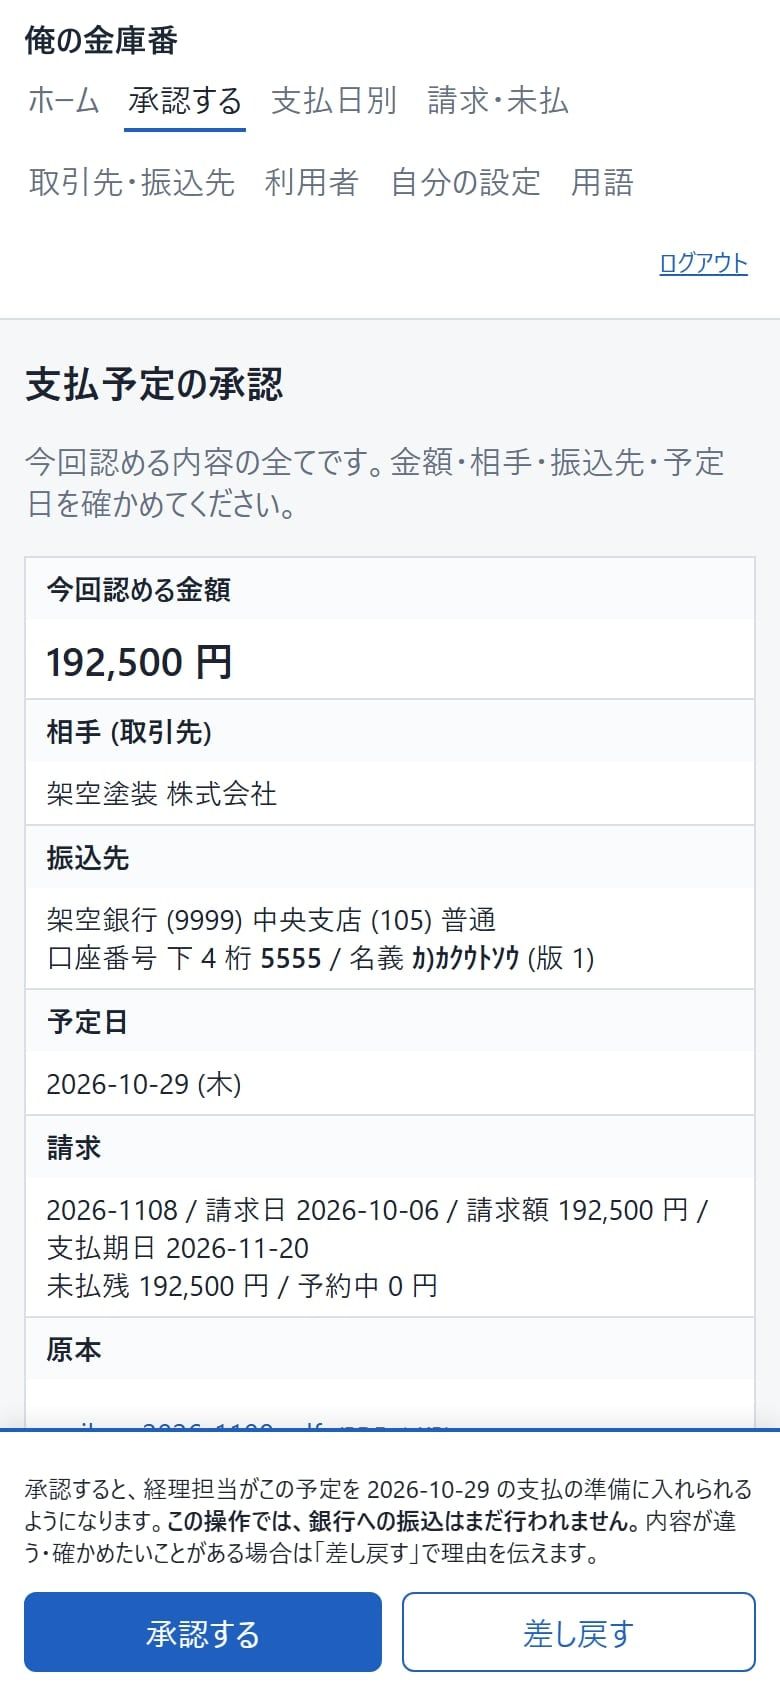
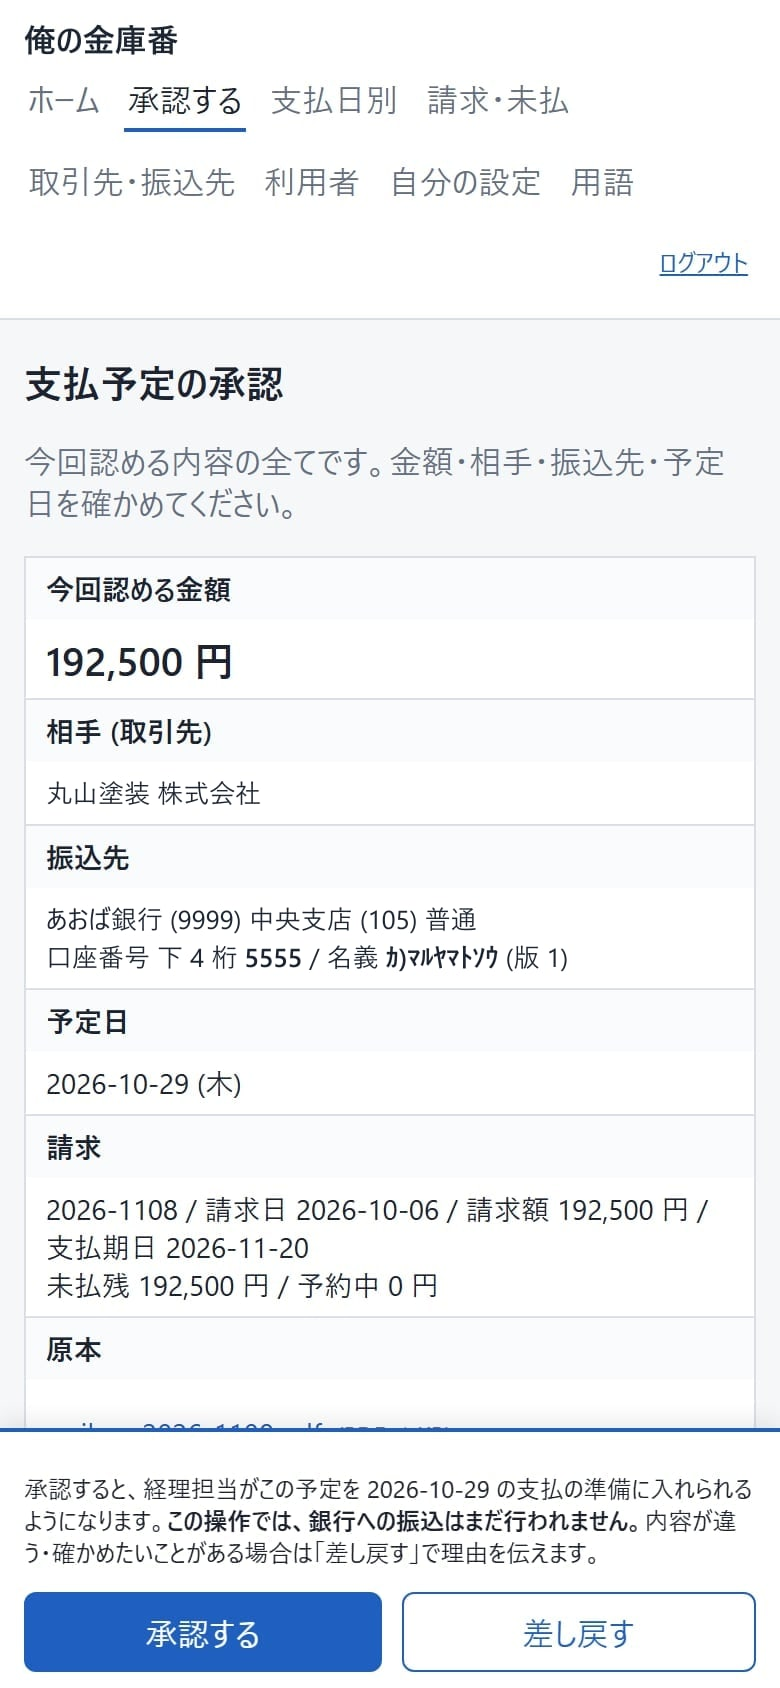
俺の金庫番: デモと画面写真・カード画像の「架空」の名前を自然な名前に差し替え。使っていない俺の番頭の画面写真を削除
Claude-Session: https://claude.ai/code/session_01P8GfC6i6qUkQG9xHNCAYyn

Changed region(s): [[0.0615, 0.5237, 0.7692, 0.5853], [0.0615, 0.4621, 0.3385, 0.4929]]

diff --git a/shiharai-kanri/index.html b/shiharai-kanri/index.html
@@ -17,9 +17,9 @@
 <meta property="og:title" content="俺の金庫番｜請求書の支払、社長はスマホで承認｜DX職人">
 <meta property="og:description" content="請求書を登録し、社長がスマホで承認。承認した内容から銀行に持ち込む振込ファイル(全銀形式)を作り、銀行の明細と照らして支払済みを記録します。">
 <meta property="og:url" content="https://dx-syokunin.jp/shiharai-kanri/">
-<meta property="og:image" content="https://dx-syokunin.jp/assets/shiharai-kanri.jpg?v=20261026c">
+<meta property="og:image" content="https://dx-syokunin.jp/assets/shiharai-kanri.jpg?v=20261027a">
 <meta name="twitter:card" content="summary_large_image">
-<script type="application/ld+json">{"@context": "https://schema.org", "@graph": [{"@type": "WebPage", "@id": "https://dx-syokunin.jp/shiharai-kanri/", "url": "https://dx-syokunin.jp/shiharai-kanri/", "name": "俺の金庫番｜請求書の支払を社長がスマホで承認し、振込ファイルまで｜DX職人", "inLanguage": "ja", "isPartOf": {"@id": "https://dx-syokunin.jp/#website"}, "primaryImageOfPage": {"@type": "ImageObject", "url": "https://dx-syokunin.jp/assets/shiharai-kanri.jpg?v=20261026c"}}, {"@type": "BreadcrumbList", "itemListElement": [{"@type": "ListItem", "position": 1, "name": "DX職人", "item": "https://dx-syokunin.jp/"}, {"@type": "ListItem", "position": 2, "name": "俺の金庫番", "item": "https://dx-syokunin.jp/shiharai-kanri/"}]}, {"@type": "FAQPage", "mainEntity": [{"@type": "Question", "name": "銀行に自動で振り込みますか？", "acceptedAnswer": {"@type": "Answer", "text": "いいえ。銀行に取り込む振込ファイル(全銀形式)を作るところまでです。振込の実行は、銀行の法人向けネットバンキングで行います。"}}, {"@type": "Question", "name": "どの銀行で使えますか？", "acceptedAnswer": {"@type": "Answer", "text": "全銀協が決めた形(総合振込)のファイルを作ります。お使いの銀行で取り込めるかは、導入のときに一緒に確かめます。"}}, {"@type": "Question", "name": "社長ひとりでも使えますか？", "acceptedAnswer": {"@type": "Answer", "text": "使えません。登録した本人は承認できない作りなので、請求を登録する人と承認する人の2人以上で使います。"}}, {"@type": "Question", "name": "承認の依頼が来たことは、どうやって分かりますか？", "acceptedAnswer": {"@type": "Answer", "text": "ログインすると、ホームに「承認する: 2 件」のように出ます。メールなどでのお知らせはありません。"}}, {"@type": "Question", "name": "請求書を写真で読み取りますか？", "acceptedAnswer": {"@type": "Answer", "text": "読み取りません。請求書のPDFや写真は原本として保存し、金額などは人が入力します。"}}, {"@type": "Question", "name": "料金はいくらですか？", "acceptedAnswer": {"@type": "Answer", "text": "ご相談のうえご案内します。お気軽にお問い合わせください。"}}]}]}</script>
+<script type="application/ld+json">{"@context": "https://schema.org", "@graph": [{"@type": "WebPage", "@id": "https://dx-syokunin.jp/shiharai-kanri/", "url": "https://dx-syokunin.jp/shiharai-kanri/", "name": "俺の金庫番｜請求書の支払を社長がスマホで承認し、振込ファイルまで｜DX職人", "inLanguage": "ja", "isPartOf": {"@id": "https://dx-syokunin.jp/#website"}, "primaryImageOfPage": {"@type": "ImageObject", "url": "https://dx-syokunin.jp/assets/shiharai-kanri.jpg?v=20261027a"}}, {"@type": "BreadcrumbList", "itemListElement": [{"@type": "ListItem", "position": 1, "name": "DX職人", "item": "https://dx-syokunin.jp/"}, {"@type": "ListItem", "position": 2, "name": "俺の金庫番", "item": "https://dx-syokunin.jp/shiharai-kanri/"}]}, {"@type": "FAQPage", "mainEntity": [{"@type": "Question", "name": "銀行に自動で振り込みますか？", "acceptedAnswer": {"@type": "Answer", "text": "いいえ。銀行に取り込む振込ファイル(全銀形式)を作るところまでです。振込の実行は、銀行の法人向けネットバンキングで行います。"}}, {"@type": "Question", "name": "どの銀行で使えますか？", "acceptedAnswer": {"@type": "Answer", "text": "全銀協が決めた形(総合振込)のファイルを作ります。お使いの銀行で取り込めるかは、導入のときに一緒に確かめます。"}}, {"@type": "Question", "name": "社長ひとりでも使えますか？", "acceptedAnswer": {"@type": "Answer", "text": "使えません。登録した本人は承認できない作りなので、請求を登録する人と承認する人の2人以上で使います。"}}, {"@type": "Question", "name": "承認の依頼が来たことは、どうやって分かりますか？", "acceptedAnswer": {"@type": "Answer", "text": "ログインすると、ホームに「承認する: 2 件」のように出ます。メールなどでのお知らせはありません。"}}, {"@type": "Question", "name": "請求書を写真で読み取りますか？", "acceptedAnswer": {"@type": "Answer", "text": "読み取りません。請求書のPDFや写真は原本として保存し、金額などは人が入力します。"}}, {"@type": "Question", "name": "料金はいくらですか？", "acceptedAnswer": {"@type": "Answer", "text": "ご相談のうえご案内します。お気軽にお問い合わせください。"}}]}]}</script>
 <link rel="stylesheet" href="../style.css?v=20261026a">
 <link rel="stylesheet" href="lp.css?v=20261027b">
 <script>document.documentElement.classList.add('has-js');</script>
@@ -103,7 +103,7 @@
     <div class="sk-hero__visual">
       <div class="sk-phone sk-phone--hero">
         <div class="sk-phone__screen sk-phone__screen--img">
-          <img src="../assets/shiharai-kanri/approve-sp.jpg" width="780" height="1688" alt="社長のスマホに出る「支払予定の承認」の画面。今回認める金額 192,500 円、相手、振込先、予定日、請求の内容と、下に「承認する」「差し戻す」のボタン">
+          <img src="../assets/shiharai-kanri/approve-sp.jpg?v=20261027a" width="780" height="1688" alt="社長のスマホに出る「支払予定の承認」の画面。今回認める金額 192,500 円、相手、振込先、予定日、請求の内容と、下に「承認する」「差し戻す」のボタン">
         </div>
       </div>
       <div class="sk-hero__float sk-hero__float--1" aria-hidden="true"><svg class="icon" aria-hidden="true"><use href="#i-smartphone"/></svg>社長: スマホで承認</div>
@@ -198,7 +198,7 @@
       <h2 id="office-title"><span class="ph">経理担当は、</span><span class="accent ph">「今日やること」を見るだけ。</span></h2>
       <p class="intro">承認された支払、照らし合わせる明細、期日を過ぎた請求。やることが件数で並びます。</p>
     </div>
-    <figure class="sk-browser"><span class="sk-browser__bar" aria-hidden="true"><i></i><i></i><i></i></span><picture><source media="(max-width: 599px)" srcset="../assets/shiharai-kanri/home-sp.jpg"><img src="../assets/shiharai-kanri/home.jpg" width="1280" height="954" loading="lazy" alt="経理担当のホーム。今日あなたがすること の一覧と、未払が残っている請求などの状況の表"></picture></figure>
+    <figure class="sk-browser"><span class="sk-browser__bar" aria-hidden="true"><i></i><i></i><i></i></span><picture><source media="(max-width: 599px)" srcset="../assets/shiharai-kanri/home-sp.jpg"><img src="../assets/shiharai-kanri/home.jpg?v=20261027a" width="1280" height="954" loading="lazy" alt="経理担当のホーム。今日あなたがすること の一覧と、未払が残っている請求などの状況の表"></picture></figure>
   </div>
 </section>
 
@@ -273,6 +273,6 @@
 </div>
 
 <script src="../script.js?v=20261019a" defer></script>
-<script src="lp.js?v=20261026a" defer></script>
+<script src="lp.js?v=20261027a" defer></script>
 </body>
 </html>

diff --git a/shiharai-kanri/lp.js b/shiharai-kanri/lp.js
@@ -1,4 +1,4 @@
-/* 俺の金庫番 LP: 社長がスマホで承認する流れの再現(文言は製品の画面の原文) */
+/* 俺の金庫番 LP: 社長がスマホで承認する流れ(画面はイメージ) */
 (function () {
   'use strict';
 
@@ -9,16 +9,16 @@
   var reduce = window.matchMedia && window.matchMedia('(prefers-reduced-motion: reduce)').matches;
   var timers = [];
 
-  // 架空のデータ
+  // サンプルのデータ
   var PLANS = {
     toso: {
-      name: '架空塗装 株式会社', amount: '192,500 円', date: '2026-10-29 (木)', dateShort: '2026-10-29',
-      bankShort: '架空銀行 東支店', bankFull: '架空銀行 (9999) 東支店 (210) 普通', last4: '7777', holder: 'ｶ)ｶｸｳﾄｿｳ', ver: 2,
+      name: '丸山塗装 株式会社', amount: '192,500 円', date: '2026-10-29 (木)', dateShort: '2026-10-29',
+      bankShort: 'あおば銀行 東支店', bankFull: 'あおば銀行 (9999) 東支店 (210) 普通', last4: '7777', holder: 'ｶ)ﾏﾙﾔﾏﾄｿｳ', ver: 2,
       bill: '2026-1108', billDate: '2026-10-06', due: '2026-11-20', file: 'seikyu-2026-1108.pdf (PDF・1 KB)', changed: true
     },
     setsubi: {
-      name: '架空設備工業 株式会社', amount: '1,210,000 円', date: '2026-10-29 (木)', dateShort: '2026-10-29',
-      bankShort: '架空銀行 中央支店', bankFull: '架空銀行 (9999) 中央支店 (102) 当座', last4: '2222', holder: 'ｶ)ｶｸｳｾﾂﾋﾞｺｳｷﾞﾖｳ', ver: 1,
+      name: '東和設備工業 株式会社', amount: '1,210,000 円', date: '2026-10-29 (木)', dateShort: '2026-10-29',
+      bankShort: 'あおば銀行 中央支店', bankFull: 'あおば銀行 (9999) 中央支店 (102) 当座', last4: '2222', holder: 'ｶ)ﾄｳﾜｾﾂﾋﾞｺｳｷﾞﾖｳ', ver: 1,
       bill: '2026-1107', billDate: '2026-10-06', due: '2026-11-20', file: 'seikyu-2026-1107.pdf (PDF・1 KB)', changed: false
     }
   };
@@ -123,7 +123,7 @@
         '<dt>予定日</dt><dd>' + p.date + '</dd>' +
         '<dt>振込先</dt><dd>' + p.bankShort + '<br>下 4 桁 <b>' + p.last4 + '</b> / ' + p.holder + '</dd>' +
         '<dt>何の支払か</dt><dd>請求 ' + p.bill + ' (期日 ' + p.due + ')<br>請求額 ' + p.amount + ' / 未払残 ' + p.amount + ' / 原本 1 件</dd>' +
-        '<dt>作成者</dt><dd>架空 花子</dd>' +
+        '<dt>作成者</dt><dd>佐藤 花子</dd>' +
       '</dl>' +
       '<button type="button" class="sk-app__btn" data-off>内容を確認する</button>' +
     '</div>';
@@ -154,7 +154,7 @@
       '<dt>予定日</dt><dd>' + p.date + '</dd>' +
       '<dt>請求</dt><dd>' + p.bill + ' / 請求日 ' + p.billDate + ' / 請求額 ' + p.amount + ' / 支払期日 ' + p.due + '<br>未払残 ' + p.amount + ' / 予約中 0 円</dd>' +
       '<dt>原本</dt><dd><span class="sk-app__link" data-off>' + p.file + '</span></dd>' +
-      '<dt>予定の作成者</dt><dd>架空 花子 (版 1)</dd>' +
+      '<dt>予定の作成者</dt><dd>佐藤 花子 (版 1)</dd>' +
       '<dt>状態</dt><dd>承認待ち</dd>' +
     '</dl>';
   }
@@ -227,7 +227,7 @@
       '<div class="sk-app__body">' +
         '<p class="sk-app__done">承認しました。経理担当が「今回の支払を準備する」から準備できます。</p>' +
         '<p>承認待ちの支払予定は、ほかにありません。</p>' +
-        '<p class="sk-app__small">判断: 承認 (架空 太郎)</p>' +
+        '<p class="sk-app__small">判断: 承認 (田中 太郎)</p>' +
         '<div class="sk-app__box">' +
           '<p class="sk-app__small">承認した内容に誤りがあった場合は、出力前なら承認を取り消せます。取り消した承認では準備を確定・出力できません。承認の記録は残ります。</p>' +
           '<p style="margin-top:8px"><button type="button" class="sk-app__btn sk-app__btn--line" data-off>承認を取り消す</button></p>' +

diff --git a/index.html b/index.html
@@ -688,7 +688,7 @@
     <div class="system-web">
       <p class="system-web__label"><span class="system-web__title">社長がスマホで承認するシステム</span><span class="system-web__note">スマホやパソコンのブラウザで使うシステムです。</span></p>
       <article class="product-card product-card--web" id="shiharai-kanri">
-        <a class="product-card__hero" href="shiharai-kanri/"><img src="assets/shiharai-kanri.jpg?v=20261026c" width="1200" height="630" loading="lazy" alt="俺の金庫番 - 請求書の支払を、スマホで承認"></a>
+        <a class="product-card__hero" href="shiharai-kanri/"><img src="assets/shiharai-kanri.jpg?v=20261027a" width="1200" height="630" loading="lazy" alt="俺の金庫番 - 請求書の支払を、スマホで承認"></a>
         <div class="product-card__body">
           <p class="product-card__tags"><span class="product-card__tag">請求書の支払・振込</span></p>
           <h3 class="product-card__name">俺の金庫番</h3>

diff --git a/meishi-keihi/lp.js b/meishi-keihi/lp.js
@@ -1,4 +1,4 @@
-/* 俺の精算係 LP: LINEのトークの再現(文言は製品の原文。店名・金額・番号は架空) */
+/* 俺の精算係 LP: LINEのトークの流れ(画面はイメージ) */
 (function () {
   'use strict';
 
